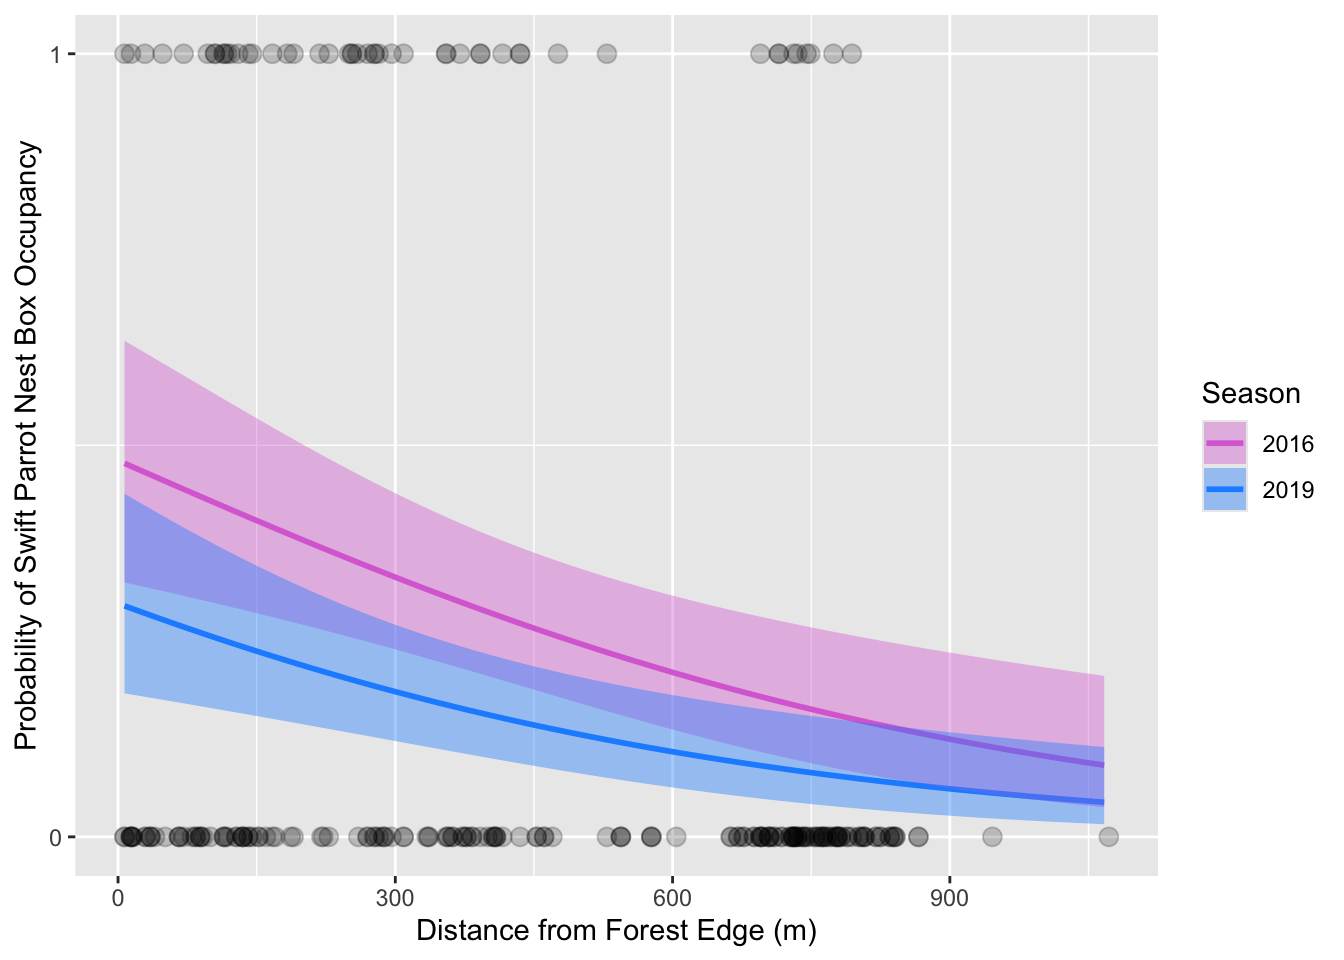
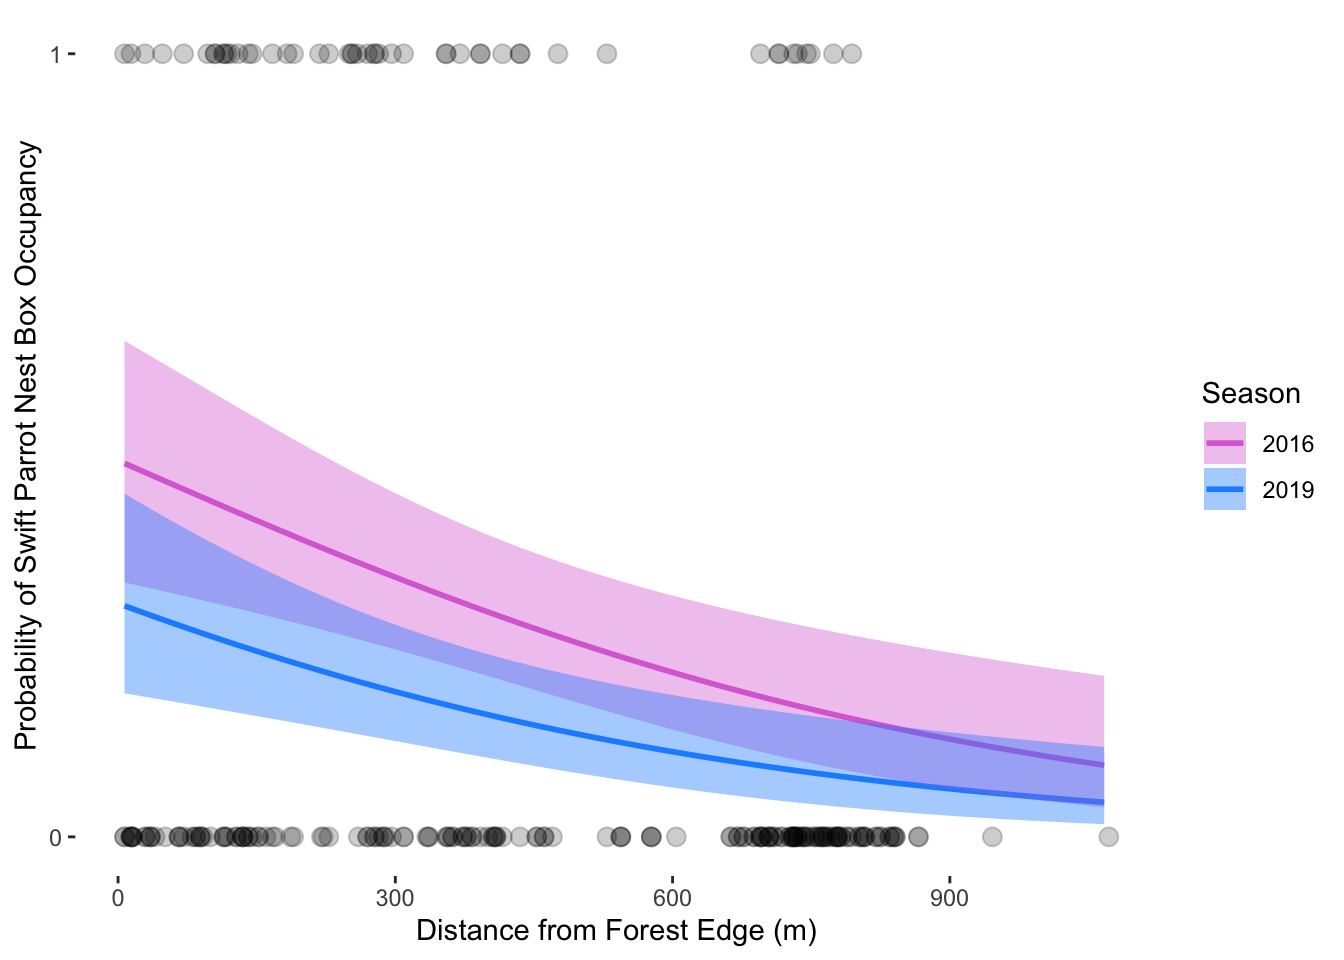
last render

diff --git a/code/final.html b/code/final.html
@@ -82,6 +82,7 @@ pre > code.sourceCode > span > a:first-child::before { text-decoration: underlin
    
   <ul>
   <li><a href="#github-repository" id="toc-github-repository" class="nav-link active" data-scroll-target="#github-repository">GitHub Repository:</a></li>
+  <li><a href="#set-up" id="toc-set-up" class="nav-link" data-scroll-target="#set-up">Set Up</a></li>
   <li><a href="#problem-1.-research-writing" id="toc-problem-1.-research-writing" class="nav-link" data-scroll-target="#problem-1.-research-writing">Problem 1. Research writing</a>
   <ul class="collapse">
   <li><a href="#a.-transparent-statistical-methods" id="toc-a.-transparent-statistical-methods" class="nav-link" data-scroll-target="#a.-transparent-statistical-methods">a. Transparent statistical methods</a></li>
@@ -151,6 +152,9 @@ pre > code.sourceCode > span > a:first-child::before { text-decoration: underlin
 <section id="github-repository" class="level2">
 <h2 class="anchored" data-anchor-id="github-repository">GitHub Repository:</h2>
 <p>(https://github.com/izzy-chang/ENVS-193DS_spring-2025_final)</p>
+</section>
+<section id="set-up" class="level2">
+<h2 class="anchored" data-anchor-id="set-up">Set Up</h2>
 </section>
 <section id="problem-1.-research-writing" class="level1">
 <h1>Problem 1. Research writing</h1>
@@ -370,14 +374,12 @@ pre > code.sourceCode > span > a:first-child::before { text-decoration: underlin
 </div>
 </div>
 <div class="cell">
-<div class="sourceCode cell-code" id="cb8"><pre class="sourceCode r code-with-copy"><code class="sourceCode r"><span id="cb8-1"><a href="#cb8-1" aria-hidden="true" tabindex="-1"></a><span class="co"># Model 3 diagnostics</span></span>
-<span id="cb8-2"><a href="#cb8-2" aria-hidden="true" tabindex="-1"></a><span class="fu">plot</span>(</span>
-<span id="cb8-3"><a href="#cb8-3" aria-hidden="true" tabindex="-1"></a>  <span class="fu">simulateResiduals</span>(model3)</span>
-<span id="cb8-4"><a href="#cb8-4" aria-hidden="true" tabindex="-1"></a>)</span></code><button title="Copy to Clipboard" class="code-copy-button"><i class="bi"></i></button></pre></div>
-<div class="cell-output cell-output-stderr">
-<pre><code>Warning in newton(lsp = lsp, X = G$X, y = G$y, Eb = G$Eb, UrS = G$UrS, L = G$L,
-: Fitting terminated with step failure - check results carefully</code></pre>
-</div>
+<div class="sourceCode cell-code" id="cb8"><pre class="sourceCode r code-with-copy"><code class="sourceCode r"><span id="cb8-1"><a href="#cb8-1" aria-hidden="true" tabindex="-1"></a>show_col_types <span class="ot">=</span> <span class="cn">FALSE</span> <span class="co"># hide the columns and codes and messages</span></span>
+<span id="cb8-2"><a href="#cb8-2" aria-hidden="true" tabindex="-1"></a></span>
+<span id="cb8-3"><a href="#cb8-3" aria-hidden="true" tabindex="-1"></a><span class="co"># Model 3 diagnostics</span></span>
+<span id="cb8-4"><a href="#cb8-4" aria-hidden="true" tabindex="-1"></a><span class="fu">plot</span>(</span>
+<span id="cb8-5"><a href="#cb8-5" aria-hidden="true" tabindex="-1"></a>  <span class="fu">simulateResiduals</span>(model3)</span>
+<span id="cb8-6"><a href="#cb8-6" aria-hidden="true" tabindex="-1"></a>)</span></code><button title="Copy to Clipboard" class="code-copy-button"><i class="bi"></i></button></pre></div>
 <div class="cell-output-display">
 <div>
 <figure class="figure">
@@ -390,56 +392,59 @@ pre > code.sourceCode > span > a:first-child::before { text-decoration: underlin
 <section id="g.-select-the-best-model" class="level2">
 <h2 class="anchored" data-anchor-id="g.-select-the-best-model">g. Select the best model</h2>
 <div class="cell">
-<div class="sourceCode cell-code" id="cb10"><pre class="sourceCode r code-with-copy"><code class="sourceCode r"><span id="cb10-1"><a href="#cb10-1" aria-hidden="true" tabindex="-1"></a>show_col_types <span class="ot">=</span> <span class="cn">FALSE</span> <span class="co"># hide the columns and codes and messages</span></span>
-<span id="cb10-2"><a href="#cb10-2" aria-hidden="true" tabindex="-1"></a></span>
-<span id="cb10-3"><a href="#cb10-3" aria-hidden="true" tabindex="-1"></a><span class="co"># use AICc to select the best model</span></span>
-<span id="cb10-4"><a href="#cb10-4" aria-hidden="true" tabindex="-1"></a><span class="fu">AICc</span>(model0,</span>
-<span id="cb10-5"><a href="#cb10-5" aria-hidden="true" tabindex="-1"></a>     model1,</span>
-<span id="cb10-6"><a href="#cb10-6" aria-hidden="true" tabindex="-1"></a>     model2,</span>
-<span id="cb10-7"><a href="#cb10-7" aria-hidden="true" tabindex="-1"></a>     model3) <span class="sc">|&gt;</span> </span>
-<span id="cb10-8"><a href="#cb10-8" aria-hidden="true" tabindex="-1"></a>  <span class="fu">arrange</span>(AICc) <span class="co"># arrange from best to worst</span></span></code><button title="Copy to Clipboard" class="code-copy-button"><i class="bi"></i></button></pre></div>
+<div class="sourceCode cell-code" id="cb9"><pre class="sourceCode r code-with-copy"><code class="sourceCode r"><span id="cb9-1"><a href="#cb9-1" aria-hidden="true" tabindex="-1"></a>show_col_types <span class="ot">=</span> <span class="cn">FALSE</span> <span class="co"># hide the columns and codes and messages</span></span>
+<span id="cb9-2"><a href="#cb9-2" aria-hidden="true" tabindex="-1"></a></span>
+<span id="cb9-3"><a href="#cb9-3" aria-hidden="true" tabindex="-1"></a><span class="co"># use AICc to select the best model</span></span>
+<span id="cb9-4"><a href="#cb9-4" aria-hidden="true" tabindex="-1"></a><span class="fu">AICc</span>(model0,</span>
+<span id="cb9-5"><a href="#cb9-5" aria-hidden="true" tabindex="-1"></a>     model1,</span>
+<span id="cb9-6"><a href="#cb9-6" aria-hidden="true" tabindex="-1"></a>     model2,</span>
+<span id="cb9-7"><a href="#cb9-7" aria-hidden="true" tabindex="-1"></a>     model3) <span class="sc">|&gt;</span> </span>
+<span id="cb9-8"><a href="#cb9-8" aria-hidden="true" tabindex="-1"></a>  <span class="fu">arrange</span>(AICc) <span class="co"># arrange from best to worst</span></span></code><button title="Copy to Clipboard" class="code-copy-button"><i class="bi"></i></button></pre></div>
 </div>
 <div class="cell">
-<div class="sourceCode cell-code" id="cb11"><pre class="sourceCode r code-with-copy"><code class="sourceCode r"><span id="cb11-1"><a href="#cb11-1" aria-hidden="true" tabindex="-1"></a>show_col_types <span class="ot">=</span> <span class="cn">FALSE</span> <span class="co"># hide the columns and codes and messages</span></span>
-<span id="cb11-2"><a href="#cb11-2" aria-hidden="true" tabindex="-1"></a></span>
-<span id="cb11-3"><a href="#cb11-3" aria-hidden="true" tabindex="-1"></a><span class="fu">summary</span>(model1)</span>
-<span id="cb11-4"><a href="#cb11-4" aria-hidden="true" tabindex="-1"></a></span>
-<span id="cb11-5"><a href="#cb11-5" aria-hidden="true" tabindex="-1"></a>gtsummary<span class="sc">::</span><span class="fu">tbl_regression</span>(model1,</span>
-<span id="cb11-6"><a href="#cb11-6" aria-hidden="true" tabindex="-1"></a>                          <span class="at">exponentiate =</span> <span class="cn">TRUE</span>) <span class="co"># exponentiate the estimates</span></span></code><button title="Copy to Clipboard" class="code-copy-button"><i class="bi"></i></button></pre></div>
+<div class="sourceCode cell-code" id="cb10"><pre class="sourceCode r code-with-copy"><code class="sourceCode r"><span id="cb10-1"><a href="#cb10-1" aria-hidden="true" tabindex="-1"></a>show_col_types <span class="ot">=</span> <span class="cn">FALSE</span> <span class="co"># hide the columns and codes and messages</span></span>
+<span id="cb10-2"><a href="#cb10-2" aria-hidden="true" tabindex="-1"></a></span>
+<span id="cb10-3"><a href="#cb10-3" aria-hidden="true" tabindex="-1"></a><span class="fu">summary</span>(model1)</span>
+<span id="cb10-4"><a href="#cb10-4" aria-hidden="true" tabindex="-1"></a></span>
+<span id="cb10-5"><a href="#cb10-5" aria-hidden="true" tabindex="-1"></a>gtsummary<span class="sc">::</span><span class="fu">tbl_regression</span>(model1,</span>
+<span id="cb10-6"><a href="#cb10-6" aria-hidden="true" tabindex="-1"></a>                          <span class="at">exponentiate =</span> <span class="cn">TRUE</span>) <span class="co"># exponentiate the estimates</span></span></code><button title="Copy to Clipboard" class="code-copy-button"><i class="bi"></i></button></pre></div>
 </div>
 <p>The best model as determined by Akaike’s Information Criterion (AIC) was Model 1, or the saturated model with both season and edge distance as predictors.</p>
 </section>
 <section id="h.-visualize-the-model-predictions" class="level2">
 <h2 class="anchored" data-anchor-id="h.-visualize-the-model-predictions">h. Visualize the model predictions</h2>
 <div class="cell">
-<div class="sourceCode cell-code" id="cb12"><pre class="sourceCode r code-with-copy"><code class="sourceCode r"><span id="cb12-1"><a href="#cb12-1" aria-hidden="true" tabindex="-1"></a>model1_preds <span class="ot">&lt;-</span> <span class="fu">ggpredict</span>(model1,</span>
-<span id="cb12-2"><a href="#cb12-2" aria-hidden="true" tabindex="-1"></a>                       <span class="at">terms =</span> <span class="fu">c</span>(<span class="st">"edge_distance [7:1072 by=10]"</span>, <span class="st">"season"</span>)) <span class="co"># make predictions of occupancy probability at every 10 meters from 7 to 1072 </span></span>
-<span id="cb12-3"><a href="#cb12-3" aria-hidden="true" tabindex="-1"></a></span>
-<span id="cb12-4"><a href="#cb12-4" aria-hidden="true" tabindex="-1"></a><span class="fu">ggplot</span>(nest_boxes_clean, <span class="co"># begin with clean data</span></span>
-<span id="cb12-5"><a href="#cb12-5" aria-hidden="true" tabindex="-1"></a>       <span class="fu">aes</span>(<span class="at">x =</span> edge_distance, <span class="co"># set edge distance on x-axis</span></span>
-<span id="cb12-6"><a href="#cb12-6" aria-hidden="true" tabindex="-1"></a>           <span class="at">y =</span> sp)) <span class="sc">+</span> <span class="co"># set occupancy on y-axis</span></span>
-<span id="cb12-7"><a href="#cb12-7" aria-hidden="true" tabindex="-1"></a>  <span class="fu">geom_point</span>(<span class="at">size =</span> <span class="dv">3</span>,</span>
-<span id="cb12-8"><a href="#cb12-8" aria-hidden="true" tabindex="-1"></a>             <span class="at">alpha =</span> <span class="fl">0.2</span>) <span class="sc">+</span> <span class="co"># add semi-transparent data points</span></span>
-<span id="cb12-9"><a href="#cb12-9" aria-hidden="true" tabindex="-1"></a>    <span class="fu">geom_line</span>(<span class="at">data =</span> model1_preds,</span>
-<span id="cb12-10"><a href="#cb12-10" aria-hidden="true" tabindex="-1"></a>            <span class="fu">aes</span>(<span class="at">x =</span> x,</span>
-<span id="cb12-11"><a href="#cb12-11" aria-hidden="true" tabindex="-1"></a>                 <span class="at">y =</span> predicted,</span>
-<span id="cb12-12"><a href="#cb12-12" aria-hidden="true" tabindex="-1"></a>                <span class="at">color =</span> group),</span>
-<span id="cb12-13"><a href="#cb12-13" aria-hidden="true" tabindex="-1"></a>            <span class="at">size =</span> <span class="dv">1</span>) <span class="sc">+</span> <span class="co"># add prediction lines, colored by season</span></span>
-<span id="cb12-14"><a href="#cb12-14" aria-hidden="true" tabindex="-1"></a>  <span class="fu">geom_ribbon</span>(<span class="at">data =</span> model1_preds,</span>
-<span id="cb12-15"><a href="#cb12-15" aria-hidden="true" tabindex="-1"></a>              <span class="fu">aes</span>(<span class="at">x =</span> x,</span>
-<span id="cb12-16"><a href="#cb12-16" aria-hidden="true" tabindex="-1"></a>                  <span class="at">y =</span> predicted,</span>
-<span id="cb12-17"><a href="#cb12-17" aria-hidden="true" tabindex="-1"></a>                  <span class="at">ymin =</span> conf.low,</span>
-<span id="cb12-18"><a href="#cb12-18" aria-hidden="true" tabindex="-1"></a>                  <span class="at">ymax =</span> conf.high,</span>
-<span id="cb12-19"><a href="#cb12-19" aria-hidden="true" tabindex="-1"></a>                  <span class="at">fill =</span> group),</span>
-<span id="cb12-20"><a href="#cb12-20" aria-hidden="true" tabindex="-1"></a>              <span class="at">alpha =</span> <span class="fl">0.4</span>) <span class="sc">+</span> <span class="co"># add shaded ribbons representing 95% confidence intervals</span></span>
-<span id="cb12-21"><a href="#cb12-21" aria-hidden="true" tabindex="-1"></a>  <span class="fu">scale_y_continuous</span>(<span class="at">limits =</span> <span class="fu">c</span>(<span class="dv">0</span>, <span class="dv">1</span>),</span>
-<span id="cb12-22"><a href="#cb12-22" aria-hidden="true" tabindex="-1"></a>                     <span class="at">breaks =</span> <span class="fu">c</span>(<span class="dv">0</span>, <span class="dv">1</span>)) <span class="sc">+</span> <span class="co"># set y-axis to valid probability range and show only 0 and 1 labels</span></span>
-<span id="cb12-23"><a href="#cb12-23" aria-hidden="true" tabindex="-1"></a>  <span class="fu">scale_color_manual</span>(<span class="at">values =</span> <span class="fu">c</span>(<span class="st">"2016"</span> <span class="ot">=</span> <span class="st">"orchid"</span>, <span class="st">"2019"</span> <span class="ot">=</span> <span class="st">"dodgerblue"</span>)) <span class="sc">+</span> </span>
-<span id="cb12-24"><a href="#cb12-24" aria-hidden="true" tabindex="-1"></a>  <span class="fu">scale_fill_manual</span>(<span class="at">values =</span> <span class="fu">c</span>(<span class="st">"2016"</span> <span class="ot">=</span> <span class="st">"orchid"</span>, <span class="st">"2019"</span> <span class="ot">=</span> <span class="st">"dodgerblue"</span>)) <span class="sc">+</span> <span class="co"># set colors for lines and ribbons</span></span>
-<span id="cb12-25"><a href="#cb12-25" aria-hidden="true" tabindex="-1"></a>  <span class="fu">labs</span>(<span class="at">x =</span> <span class="st">"Distance from Forest Edge (m)"</span>,</span>
-<span id="cb12-26"><a href="#cb12-26" aria-hidden="true" tabindex="-1"></a>       <span class="at">y =</span> <span class="st">"Probability of Swift Parrot Nest Box Occupancy"</span>,</span>
-<span id="cb12-27"><a href="#cb12-27" aria-hidden="true" tabindex="-1"></a>       <span class="at">color =</span> <span class="st">"Season"</span>,</span>
-<span id="cb12-28"><a href="#cb12-28" aria-hidden="true" tabindex="-1"></a>       <span class="at">fill =</span> <span class="st">"Season"</span>) <span class="co"># add axis labels and titles</span></span></code><button title="Copy to Clipboard" class="code-copy-button"><i class="bi"></i></button></pre></div>
+<div class="sourceCode cell-code" id="cb11"><pre class="sourceCode r code-with-copy"><code class="sourceCode r"><span id="cb11-1"><a href="#cb11-1" aria-hidden="true" tabindex="-1"></a>model1_preds <span class="ot">&lt;-</span> <span class="fu">ggpredict</span>(model1,</span>
+<span id="cb11-2"><a href="#cb11-2" aria-hidden="true" tabindex="-1"></a>                       <span class="at">terms =</span> <span class="fu">c</span>(<span class="st">"edge_distance [7:1072 by=10]"</span>, <span class="st">"season"</span>)) <span class="co"># make predictions of occupancy probability at every 10 meters from 7 to 1072 </span></span>
+<span id="cb11-3"><a href="#cb11-3" aria-hidden="true" tabindex="-1"></a></span>
+<span id="cb11-4"><a href="#cb11-4" aria-hidden="true" tabindex="-1"></a><span class="fu">ggplot</span>(nest_boxes_clean, <span class="co"># begin with clean data</span></span>
+<span id="cb11-5"><a href="#cb11-5" aria-hidden="true" tabindex="-1"></a>       <span class="fu">aes</span>(<span class="at">x =</span> edge_distance, <span class="co"># set edge distance on x-axis</span></span>
+<span id="cb11-6"><a href="#cb11-6" aria-hidden="true" tabindex="-1"></a>           <span class="at">y =</span> sp)) <span class="sc">+</span> <span class="co"># set occupancy on y-axis</span></span>
+<span id="cb11-7"><a href="#cb11-7" aria-hidden="true" tabindex="-1"></a>  <span class="fu">geom_point</span>(<span class="at">size =</span> <span class="dv">3</span>,</span>
+<span id="cb11-8"><a href="#cb11-8" aria-hidden="true" tabindex="-1"></a>             <span class="at">alpha =</span> <span class="fl">0.2</span>) <span class="sc">+</span> <span class="co"># add semi-transparent data points</span></span>
+<span id="cb11-9"><a href="#cb11-9" aria-hidden="true" tabindex="-1"></a>    <span class="fu">geom_line</span>(<span class="at">data =</span> model1_preds,</span>
+<span id="cb11-10"><a href="#cb11-10" aria-hidden="true" tabindex="-1"></a>            <span class="fu">aes</span>(<span class="at">x =</span> x,</span>
+<span id="cb11-11"><a href="#cb11-11" aria-hidden="true" tabindex="-1"></a>                 <span class="at">y =</span> predicted,</span>
+<span id="cb11-12"><a href="#cb11-12" aria-hidden="true" tabindex="-1"></a>                <span class="at">color =</span> group),</span>
+<span id="cb11-13"><a href="#cb11-13" aria-hidden="true" tabindex="-1"></a>            <span class="at">size =</span> <span class="dv">1</span>) <span class="sc">+</span> <span class="co"># add prediction lines, colored by season</span></span>
+<span id="cb11-14"><a href="#cb11-14" aria-hidden="true" tabindex="-1"></a>  <span class="fu">geom_ribbon</span>(<span class="at">data =</span> model1_preds,</span>
+<span id="cb11-15"><a href="#cb11-15" aria-hidden="true" tabindex="-1"></a>              <span class="fu">aes</span>(<span class="at">x =</span> x,</span>
+<span id="cb11-16"><a href="#cb11-16" aria-hidden="true" tabindex="-1"></a>                  <span class="at">y =</span> predicted,</span>
+<span id="cb11-17"><a href="#cb11-17" aria-hidden="true" tabindex="-1"></a>                  <span class="at">ymin =</span> conf.low,</span>
+<span id="cb11-18"><a href="#cb11-18" aria-hidden="true" tabindex="-1"></a>                  <span class="at">ymax =</span> conf.high,</span>
+<span id="cb11-19"><a href="#cb11-19" aria-hidden="true" tabindex="-1"></a>                  <span class="at">fill =</span> group),</span>
+<span id="cb11-20"><a href="#cb11-20" aria-hidden="true" tabindex="-1"></a>              <span class="at">alpha =</span> <span class="fl">0.4</span>) <span class="sc">+</span> <span class="co"># add shaded ribbons representing 95% confidence intervals</span></span>
+<span id="cb11-21"><a href="#cb11-21" aria-hidden="true" tabindex="-1"></a>  <span class="fu">scale_y_continuous</span>(<span class="at">limits =</span> <span class="fu">c</span>(<span class="dv">0</span>, <span class="dv">1</span>),</span>
+<span id="cb11-22"><a href="#cb11-22" aria-hidden="true" tabindex="-1"></a>                     <span class="at">breaks =</span> <span class="fu">c</span>(<span class="dv">0</span>, <span class="dv">1</span>)) <span class="sc">+</span> <span class="co"># set y-axis to valid probability range and show only 0 and 1 labels</span></span>
+<span id="cb11-23"><a href="#cb11-23" aria-hidden="true" tabindex="-1"></a>  <span class="fu">scale_color_manual</span>(<span class="at">values =</span> <span class="fu">c</span>(<span class="st">"2016"</span> <span class="ot">=</span> <span class="st">"orchid"</span>, <span class="st">"2019"</span> <span class="ot">=</span> <span class="st">"dodgerblue"</span>)) <span class="sc">+</span> </span>
+<span id="cb11-24"><a href="#cb11-24" aria-hidden="true" tabindex="-1"></a>  <span class="fu">scale_fill_manual</span>(<span class="at">values =</span> <span class="fu">c</span>(<span class="st">"2016"</span> <span class="ot">=</span> <span class="st">"orchid"</span>, <span class="st">"2019"</span> <span class="ot">=</span> <span class="st">"dodgerblue"</span>)) <span class="sc">+</span> <span class="co"># set colors for lines and ribbons</span></span>
+<span id="cb11-25"><a href="#cb11-25" aria-hidden="true" tabindex="-1"></a>  <span class="fu">labs</span>(<span class="at">x =</span> <span class="st">"Distance from Forest Edge (m)"</span>,</span>
+<span id="cb11-26"><a href="#cb11-26" aria-hidden="true" tabindex="-1"></a>       <span class="at">y =</span> <span class="st">"Probability of Swift Parrot Nest Box Occupancy"</span>,</span>
+<span id="cb11-27"><a href="#cb11-27" aria-hidden="true" tabindex="-1"></a>       <span class="at">color =</span> <span class="st">"Season"</span>,</span>
+<span id="cb11-28"><a href="#cb11-28" aria-hidden="true" tabindex="-1"></a>       <span class="at">fill =</span> <span class="st">"Season"</span>) <span class="sc">+</span> <span class="co"># add axis labels and titles</span></span>
+<span id="cb11-29"><a href="#cb11-29" aria-hidden="true" tabindex="-1"></a>    <span class="fu">theme</span>(<span class="at">panel.background =</span> <span class="fu">element_rect</span>(<span class="at">fill =</span> <span class="st">"white"</span>, <span class="at">color =</span> <span class="cn">NA</span>), <span class="co"># white background for panel</span></span>
+<span id="cb11-30"><a href="#cb11-30" aria-hidden="true" tabindex="-1"></a>    <span class="at">panel.grid.major =</span> <span class="fu">element_blank</span>(), <span class="co"># remove major gridlines</span></span>
+<span id="cb11-31"><a href="#cb11-31" aria-hidden="true" tabindex="-1"></a>    <span class="at">panel.grid.minor =</span> <span class="fu">element_blank</span>()) <span class="co"># remove minor gridlines</span></span></code><button title="Copy to Clipboard" class="code-copy-button"><i class="bi"></i></button></pre></div>
 <div class="cell-output-display">
 <div>
 <figure class="figure">
@@ -456,8 +461,8 @@ pre > code.sourceCode > span > a:first-child::before { text-decoration: underlin
 <section id="j.-calculate-model-predictions" class="level2">
 <h2 class="anchored" data-anchor-id="j.-calculate-model-predictions">j. Calculate model predictions</h2>
 <div class="cell">
-<div class="sourceCode cell-code" id="cb13"><pre class="sourceCode r code-with-copy"><code class="sourceCode r"><span id="cb13-1"><a href="#cb13-1" aria-hidden="true" tabindex="-1"></a><span class="fu">ggpredict</span>(model1,</span>
-<span id="cb13-2"><a href="#cb13-2" aria-hidden="true" tabindex="-1"></a>          <span class="at">terms =</span> <span class="fu">c</span>(<span class="st">"edge_distance [0, 900]"</span>, <span class="st">"season"</span>))</span></code><button title="Copy to Clipboard" class="code-copy-button"><i class="bi"></i></button></pre></div>
+<div class="sourceCode cell-code" id="cb12"><pre class="sourceCode r code-with-copy"><code class="sourceCode r"><span id="cb12-1"><a href="#cb12-1" aria-hidden="true" tabindex="-1"></a><span class="fu">ggpredict</span>(model1,</span>
+<span id="cb12-2"><a href="#cb12-2" aria-hidden="true" tabindex="-1"></a>          <span class="at">terms =</span> <span class="fu">c</span>(<span class="st">"edge_distance [0, 900]"</span>, <span class="st">"season"</span>))</span></code><button title="Copy to Clipboard" class="code-copy-button"><i class="bi"></i></button></pre></div>
 <div class="cell-output cell-output-stdout">
 <pre><code># Predicted probabilities of sp
 
